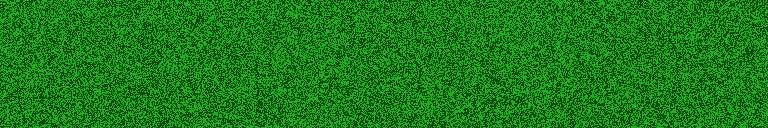
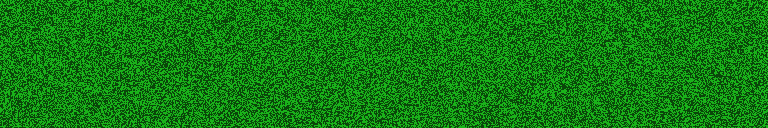
h

diff --git a/init.html b/init.html
@@ -218,13 +218,15 @@ var createScene = function () {
         const c2 = BlockColor.map((bel,i) => bel.scale(level).add(BlockColor2[i].scale(1-level)));
         colorCodeMap[`c1${index}`] = c1;
         colorCodeMap[`c2${index}`] = c2;
+        colorCodeMap[`c3${index}`] = c1;
+        colorCodeMap[`c4${index}`] = c2;
         index++;
     }
     const meshTypeMap = {}
     function GetInstance({colorCode,size,width,height,depth,x,y,z}){
         if (size) {
             width = size;
-            height = size*10;
+            height = size;
             depth = size
         }
         boxcount++;
@@ -234,10 +236,16 @@ var createScene = function () {
                 const cconfigMap = {
                     'c16':{s:64,v:1},
                     'c26':{s:64,v:2},
+                    'c36':{s:64,v:3},
+                    'c46':{s:64,v:4},
                     'c17':{s:128,v:1},
                     'c27':{s:128,v:2},
+                    'c37':{s:128,v:3},
+                    'c47':{s:128,v:4},
                     'c18':{s:256,v:1},
                     'c28':{s:256,v:2},
+                    'c38':{s:256,v:3},
+                    'c48':{s:256,v:4},
                 }
                 if (colorCode in cconfigMap) {
                     const mat = new BABYLON.StandardMaterial("mat");
@@ -339,7 +347,7 @@ var createScene = function () {
             chunkPos.y = GetElevation(chunkPos);
             for (let k = -boxesPerChunk/2; k < boxesPerChunk/2; k++) {
                 for (let l = -boxesPerChunk/2; l < boxesPerChunk/2; l++) {
-                    let colorCode = `${Math.random() > 0.5 ? 'c1' : 'c2'}${Math.min(tier,blockAvgLevels.length)}`;
+                    let colorCode = `c${Math.ceil(Math.random()*4)}${Math.min(tier,blockAvgLevels.length)}`;
                     const x = chunkPos.x+k*boxSize;
                     const z = chunkPos.z+l*boxSize;
                     const y = GetElevation({x,z})

diff --git a/maketexture.py b/maketexture.py
@@ -22,7 +22,7 @@ for resolution in resolutions:
     width = resolution * 6  # Each image is x by 6x
     
     # Generate 2 variations with different random patterns
-    for variation in range(1, 3):
+    for variation in range(1, 5):
         # Create a new image with RGB mode
         img = Image.new('RGB', (width, height))
         
